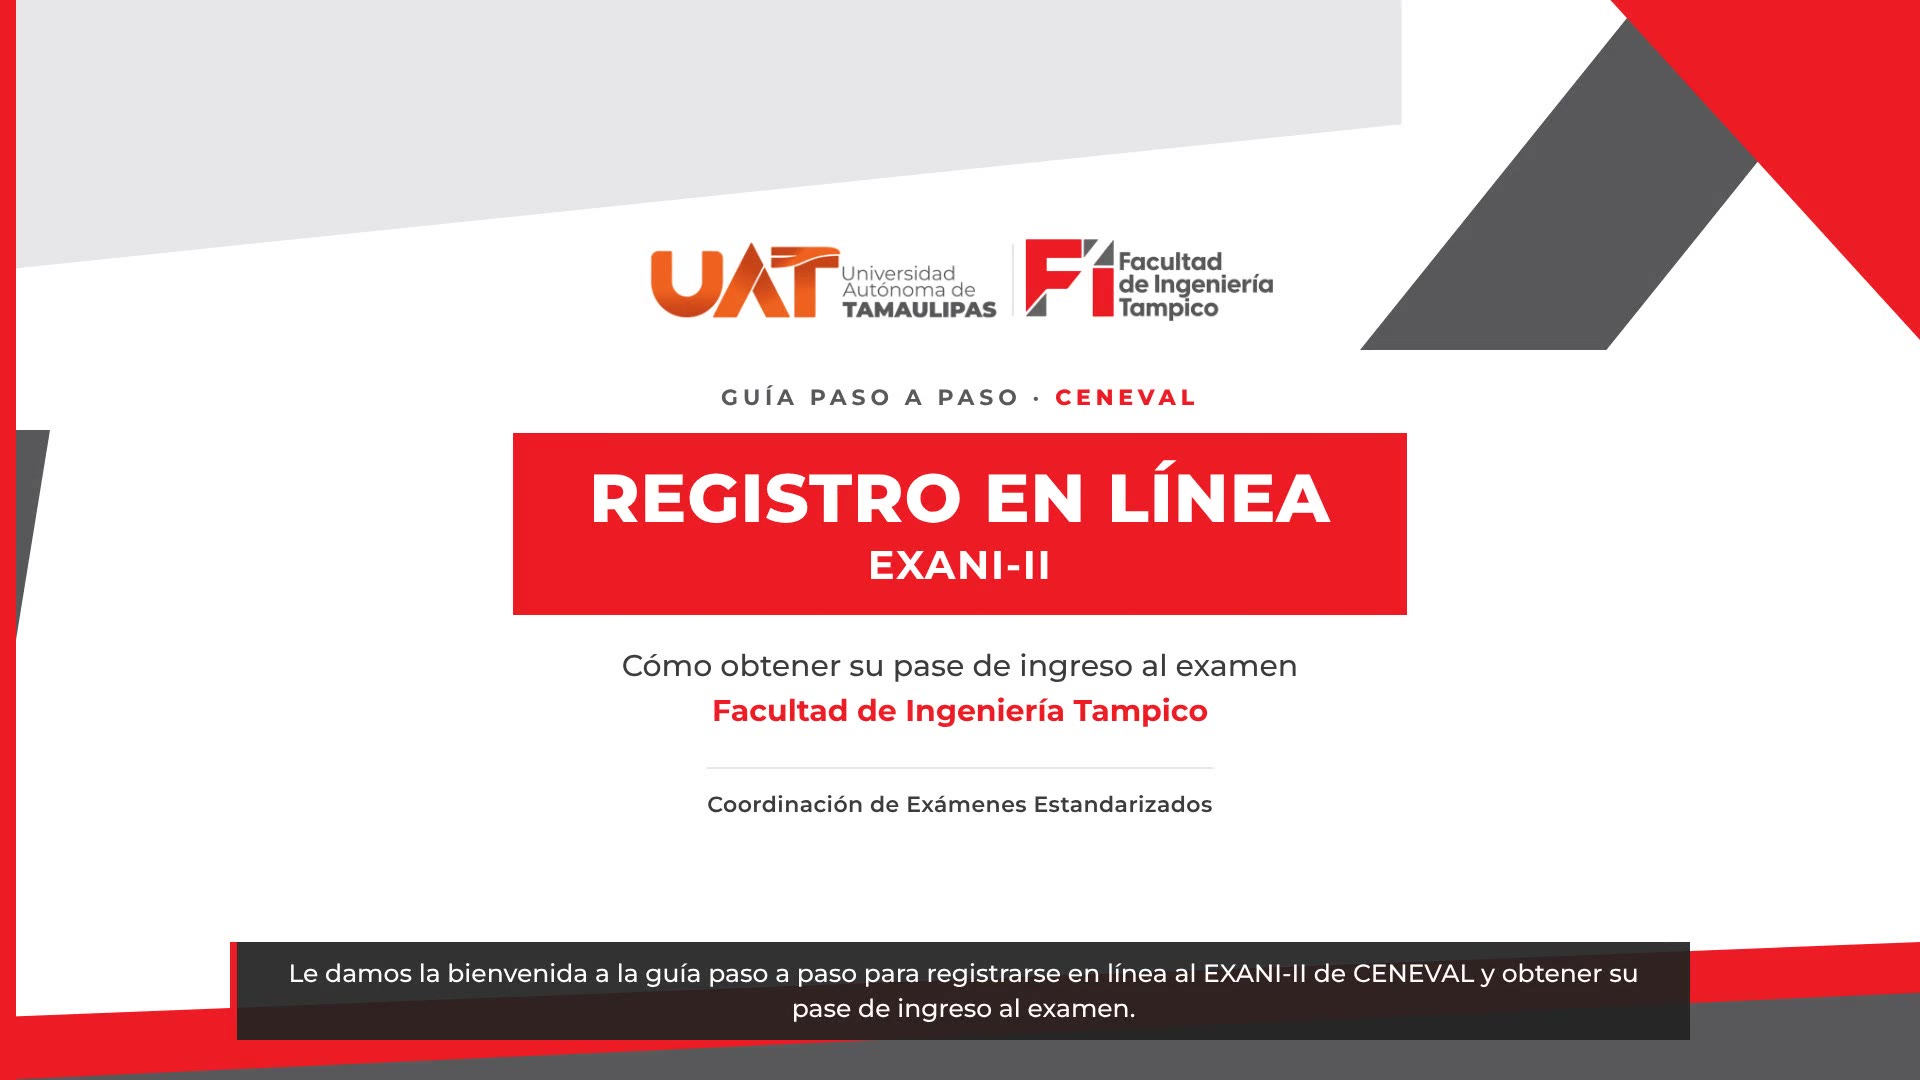
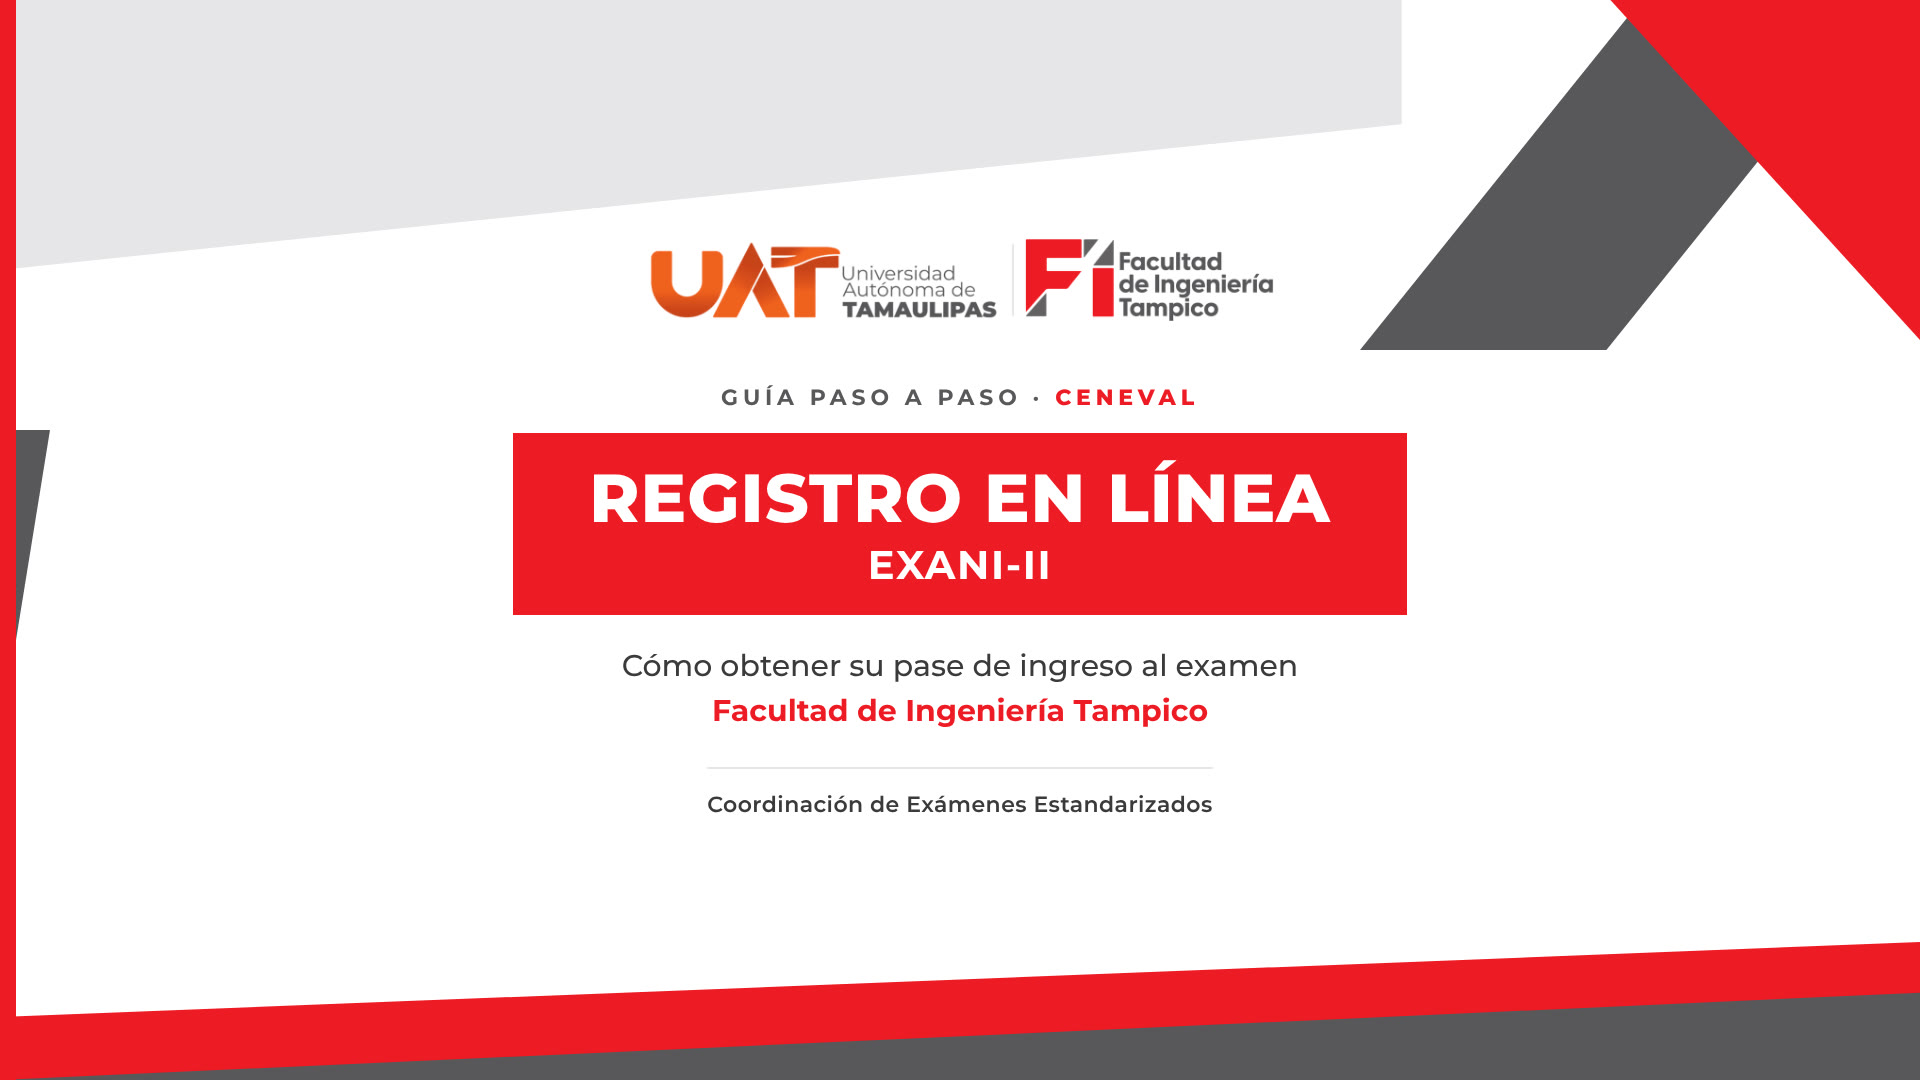
Iguala la página con las de Servicio Social y EGEL Plus
Mismo reproductor que EGEL Plus (botón grande, sin opción de descarga ni
reproducción automática), sección de enlaces en tarjetas, datos importantes,
textos del encabezado y teléfonos de contacto en el pie. Portada del video
sin subtítulo.

Claude-Session: https://claude.ai/code/session_014rG47R6em7V7rKJmyrjGE2

Changed region(s): [[0.0938, 0.8556, 0.9062, 0.9778], [0.375, 0.6417, 0.625, 0.6722], [0.4688, 0.5194, 0.5, 0.55]]

diff --git a/index.html b/index.html
@@ -42,30 +42,28 @@ body{
 .hero .k{font-size:13px;font-weight:700;letter-spacing:.16em;color:var(--rojo);text-transform:uppercase;margin-bottom:8px}
 .hero h1{font-size:40px;font-weight:800;color:var(--gris);line-height:1.15;letter-spacing:.03em}
 .hero p{font-size:17px;color:var(--gris-med);margin:12px auto 0;line-height:1.55;max-width:760px}
-#player{margin:26px auto 0;max-width:1280px;border-radius:10px;overflow:hidden;box-shadow:0 18px 50px rgba(0,0,0,.18);background:#000}
-#player video{display:block;width:100%;height:auto;aspect-ratio:16/9;background:#000}
-.dl{margin:14px auto 0;font-size:15px}
-.dl a{color:var(--rojo);font-weight:700}
+.vplayer{position:relative;margin:26px auto 0;max-width:1280px;border-radius:10px;overflow:hidden;box-shadow:0 18px 50px rgba(0,0,0,.18);background:#000;line-height:0}
+.vplayer video{display:block;width:100%;height:auto;aspect-ratio:16/9;background:#000}
+.bigplay{position:absolute;left:50%;top:50%;transform:translate(-50%,-50%);width:112px;height:112px;border-radius:50%;border:0;cursor:pointer;
+  background:rgba(237,28,36,.96);box-shadow:0 0 0 10px rgba(255,255,255,.55),0 16px 40px rgba(0,0,0,.35);transition:transform .15s ease}
+.bigplay::after{content:"";position:absolute;left:43px;top:32px;border-left:38px solid #fff;border-top:24px solid transparent;border-bottom:24px solid transparent}
+.bigplay:hover{transform:translate(-50%,-50%) scale(1.06)}
+.bigplay:focus-visible{outline:4px solid var(--gris);outline-offset:6px}
+.bigplay[hidden]{display:none}
+@media(max-width:600px){.bigplay{width:76px;height:76px}.bigplay::after{left:29px;top:21px;border-left-width:26px;border-top-width:17px;border-bottom-width:17px}}
+.vmeta{max-width:1280px;margin:14px auto 0;padding:0 24px;font-size:15px;color:var(--gris-med);text-align:center}
 .sec{max-width:1280px;margin:52px auto 0;padding:0 24px;text-align:center}
 .sec h2{font-size:26px;font-weight:800;color:var(--gris);margin-bottom:8px}
 .sec .sub{font-size:16px;color:var(--gris-med);margin-bottom:24px}
 
-.cta{
-  display:flex;flex-direction:column;align-items:center;gap:22px;text-align:center;
-  background:#fff;border:1px solid #E3E3E6;border-top:6px solid var(--rojo);border-radius:8px;
-  padding:32px 30px;box-shadow:0 10px 30px rgba(0,0,0,.06);max-width:860px;margin:0 auto;
-}
-.cta .k{font-size:13px;font-weight:700;letter-spacing:.14em;color:var(--rojo);text-transform:uppercase;margin-bottom:8px}
-.cta h3{font-size:24px;font-weight:800;color:var(--gris);margin-bottom:6px}
-.cta .url{font-size:17px;font-weight:600;color:var(--gris-med);word-break:break-all}
-.cta a.go{
-  display:inline-flex;align-items:center;gap:12px;background:var(--rojo);color:#fff;text-decoration:none;
-  font-weight:700;font-size:17px;padding:16px 28px;border-radius:6px;white-space:nowrap;transition:background .15s ease;
-}
-.cta a.go:hover{background:var(--rojo-hondo)}
-.cta .alt{font-size:15px;color:var(--gris-med);line-height:1.5}
-.cta .alt a{color:var(--rojo);font-weight:700}
-.cta a.go:focus-visible{outline:3px solid var(--gris);outline-offset:3px}
+.links3{display:grid;grid-template-columns:repeat(auto-fit,minmax(280px,1fr));gap:20px}
+.lk{background:#fff;border:1px solid #E3E3E6;border-top:6px solid var(--rojo);border-radius:8px;padding:26px 24px;display:flex;flex-direction:column;align-items:center;gap:10px;box-shadow:0 10px 30px rgba(0,0,0,.06)}
+.lk .k{font-size:13px;font-weight:700;letter-spacing:.12em;color:var(--rojo)}
+.lk h3{font-size:21px;font-weight:800;color:var(--gris)}
+.lk p{font-size:15px;line-height:1.5;color:var(--gris-med)}
+.lk a.go{margin-top:8px;display:inline-block;background:var(--rojo);color:#fff;text-decoration:none;font-weight:700;font-size:16px;padding:13px 22px;border-radius:6px;word-break:break-all}
+.lk a.go:hover{background:var(--rojo-hondo)}
+.lk a.go:focus-visible{outline:3px solid var(--gris);outline-offset:3px}
 
 .cards{display:grid;grid-template-columns:repeat(auto-fit,minmax(260px,1fr));gap:20px;margin-top:22px}
 .card{
@@ -156,32 +154,49 @@ body.intro-on{overflow:hidden}
 
 <main class="page">
 <section class="hero">
-  <p class="k">Video tutorial · Guía paso a paso</p>
+  <p class="k">Video tutorial · Aspirantes</p>
   <h1>OBTENGA SU PASE DE EXAMEN</h1>
-  <p>Siga el video paso a paso. Al final de esta página encontrará el enlace oficial al registro en línea de CENEVAL y el contacto para dudas.</p>
+  <p>Reproduzca el video. Abajo encontrará los enlaces, los datos importantes y el contacto para dudas.</p>
 </section>
 
-<div id="player">
-  <video id="video" controls playsinline preload="metadata" poster="video/portada.jpg">
+<div id="player" class="vplayer">
+  <video id="vid" controls controlsList="nodownload noplaybackrate" disablepictureinpicture playsinline preload="metadata" poster="video/portada.jpg" oncontextmenu="return false;"
+         aria-label="Video tutorial: registro en línea al EXANI-II paso a paso">
     <source src="video/registro-exani-ii.mp4" type="video/mp4">
-    Su navegador no puede reproducir el video. <a href="video/registro-exani-ii.mp4">Descárguelo aquí</a>.
+    Su navegador no puede reproducir este video.
   </video>
+  <button class="bigplay" id="bigplay" aria-label="Reproducir video"></button>
 </div>
-<p class="dl"><a href="video/registro-exani-ii.mp4" download>Descargar el video (MP4)</a></p>
+<p class="vmeta">Duración 2:49 · Con voz y subtítulos</p>
 
-<section class="sec" id="registro">
-  <h2>Enlace oficial de registro</h2>
-  <p class="sub">Aquí inicia el Paso 1. Tenga a la mano su matrícula, su CURP y un correo al que tenga acceso.</p>
-  <div class="cta">
-    <div>
-      <p class="k">CENEVAL · Registro en línea EXANI-II</p>
-      <h3>Registro en línea al EXANI-II</h3>
-      <p class="url">registroenlinea.ceneval.edu.mx/RegistroLinea/indexCerrado.php</p>
+<section class="sec" id="enlaces">
+  <h2>Enlaces para su registro</h2>
+  <p class="sub">En el orden en que los va a necesitar.</p>
+  <div class="links3">
+    <div class="lk">
+      <p class="k">ANTES DE EMPEZAR</p>
+      <h3>Portal de Aspirantes UAT</h3>
+      <p>Consulte su matrícula con su cuenta.</p>
+      <a class="go" href="https://aspirantes.uat.edu.mx/" target="_blank" rel="noopener">Ir al portal de aspirantes →</a>
     </div>
-    <a class="go" href="https://registroenlinea.ceneval.edu.mx/RegistroLinea/indexCerrado.php#institucion" target="_blank" rel="noopener">Ir al registro en línea →</a>
-    <p class="alt">¿No recuerda su matrícula? <a href="https://aspirantes.uat.edu.mx/" target="_blank" rel="noopener">Consúltela en el Portal de Aspirantes UAT</a></p>
+    <div class="lk">
+      <p class="k">PASO 1</p>
+      <h3>Registro en línea CENEVAL</h3>
+      <p>Tenga a la mano su matrícula, su CURP y un correo al que tenga acceso.</p>
+      <a class="go" href="https://registroenlinea.ceneval.edu.mx/RegistroLinea/indexCerrado.php#institucion" target="_blank" rel="noopener">Ir al registro en línea →</a>
+    </div>
+    <div class="lk">
+      <p class="k">DUDAS Y ACLARACIONES</p>
+      <h3>Correo de la Coordinación</h3>
+      <p>Escríbanos si tiene dudas sobre su registro.</p>
+      <a class="go" href="mailto:cenevalfit@uat.edu.mx">cenevalfit@uat.edu.mx</a>
+    </div>
   </div>
+</section>
 
+<section class="sec">
+  <h2>Datos importantes</h2>
+  <p class="sub">Téngalos a la mano durante su registro.</p>
   <div class="cards">
     <div class="card">
       <p class="k">ANTES DE EMPEZAR</p>
@@ -201,17 +216,12 @@ body.intro-on{overflow:hidden}
         <li>Goma y sacapuntas</li>
       </ul>
     </div>
-    <a class="card" href="mailto:cenevalfit@uat.edu.mx">
-      <p class="k">DUDAS Y ACLARACIONES</p>
-      <h3>Mtra. Paulina Fernández Izaguirre</h3>
-      <p>Coordinación de Exámenes Estandarizados · Facultad de Ingeniería Tampico<br><b style="color:var(--rojo)">cenevalfit@uat.edu.mx</b></p>
-    </a>
   </div>
 </section>
 
 <section class="sec">
-  <h2>Resumen de los 9 pasos</h2>
-  <p class="sub">Para consultarlos sin volver a ver el video.</p>
+  <h2>Resumen de los pasos</h2>
+  <p class="sub">Los mismos pasos del video.</p>
   <ol class="steps-ol">
     <li><b>Datos de registro.</b> Elija UAT Presencial o UAT EDC, escriba su matrícula (consúltela en el Portal de Aspirantes UAT), elija su carrera, en Campus elija Facultad de Ingeniería, acepte el aviso de privacidad y dé clic en Aceptar.</li>
     <li><b>Instrucciones.</b> Dé clic en “Para continuar con el registro hacer clic aquí”.</li>
@@ -234,7 +244,7 @@ body.intro-on{overflow:hidden}
   <div class="stripe"></div>
   <div class="wrap">
     <div><h4>Departamento</h4><p>Coordinación de Exámenes Estandarizados<br>Facultad de Ingeniería Tampico · Universidad Autónoma de Tamaulipas</p></div>
-    <div><h4>Dudas y aclaraciones</h4><p>Mtra. Paulina Fernández Izaguirre<br><a href="mailto:cenevalfit@uat.edu.mx">cenevalfit@uat.edu.mx</a></p></div>
+    <div><h4>Dudas y aclaraciones</h4><p>Mtra. Paulina Fernández Izaguirre<br><a href="mailto:cenevalfit@uat.edu.mx">cenevalfit@uat.edu.mx</a><br><a href="tel:+528332184714">833 218 4714</a> · <a href="tel:+528333070112">833 307 0112</a></p></div>
     <div><h4>Registro oficial</h4><p><a href="https://registroenlinea.ceneval.edu.mx/RegistroLinea/indexCerrado.php#institucion" target="_blank" rel="noopener">registroenlinea.ceneval.edu.mx</a></p></div>
   </div>
   <div class="legal"><div class="wrap">Material de apoyo informativo. El registro y la aplicación del EXANI-II son responsabilidad de CENEVAL, A.C. Los datos personales de las capturas fueron difuminados.</div></div>
@@ -248,21 +258,24 @@ document.querySelectorAll('[data-img]').forEach(function(el){
   if(IMG[k]) el.src = IMG[k];
 });
 
-// cortina de entrada: logos + departamento + contacto, luego arranca el video
+// botón grande de reproducir
 (function(){
-  var intro = document.getElementById('intro'), video = document.getElementById('video'), done = false;
-  function start(){
-    var p = video.play();
-    if(p && p.catch) p.catch(function(){});   // si el navegador bloquea la reproducción, queda el botón de play
-  }
+  var v = document.getElementById('vid'), b = document.getElementById('bigplay');
+  if(!v || !b) return;
+  b.addEventListener('click', function(){ v.play(); });
+  v.addEventListener('play', function(){ b.hidden = true; });
+})();
+
+// cortina de entrada: logos + departamento + contacto
+(function(){
+  var intro = document.getElementById('intro'), done = false;
   function finish(){
     if(done) return; done = true;
     intro.classList.add('out');
     document.body.classList.remove('intro-on');
-    setTimeout(start, 550);
     setTimeout(function(){ intro.style.display = 'none'; }, 1000);
   }
-  if(!intro){ start(); return; }
+  if(!intro) return;
   requestAnimationFrame(function(){ intro.classList.add('go'); });
   setTimeout(finish, 3000);
   intro.addEventListener('click', finish);

diff --git a/video/render.js b/video/render.js
@@ -32,9 +32,9 @@ const tl = JSON.parse(fs.readFileSync(tlFile, 'utf8'));
         if (n === 0) document.getElementById('wipe').classList.remove('go');
         window.__scene = n;
       }
-      document.getAnimations().forEach(function (a) { a.pause(); a.currentTime = t * 1000; });
       var cc = document.getElementById('cc');
       if (cc.textContent !== text) cc.textContent = text;
+      document.getAnimations().forEach(function (a) { a.pause(); a.currentTime = t * 1000; });
     };
   });
 

diff --git a/README.md b/README.md
@@ -14,7 +14,7 @@ pip install piper-tts
 python3 video/narracion.py video/fuente.html es_MX-claude-high.onnx /tmp/audio
 python3 video/linea_de_tiempo.py /tmp/audio
 node video/render.js video/fuente.html /tmp/audio/timeline.json /tmp/audio/voz.wav video/registro-exani-ii.mp4
-ffmpeg -y -ss 3 -i video/registro-exani-ii.mp4 -frames:v 1 -q:v 3 video/portada.jpg
 ```
 
-`render.js` necesita Playwright con Chromium y `ffmpeg`.
+`render.js` necesita Playwright con Chromium y `ffmpeg`. La portada (`video/portada.jpg`) es un cuadro de la escena inicial sin subtítulo:
+use el mismo `render.js` con un último argumento de segundos (p. ej. `4`) y una línea de tiempo con los textos de la escena 0 vacíos.
